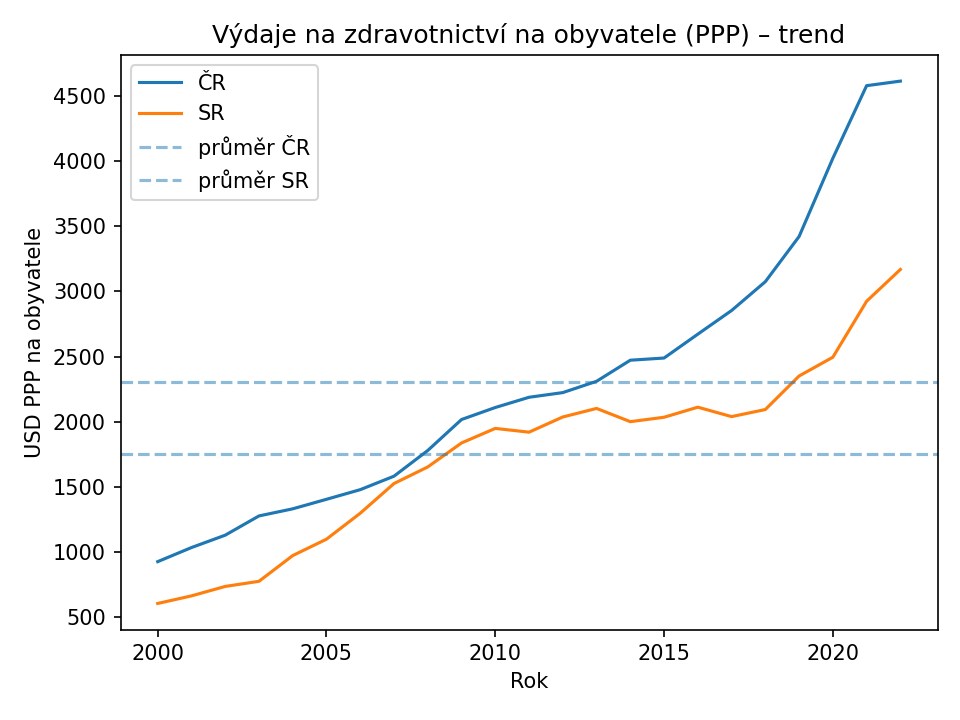
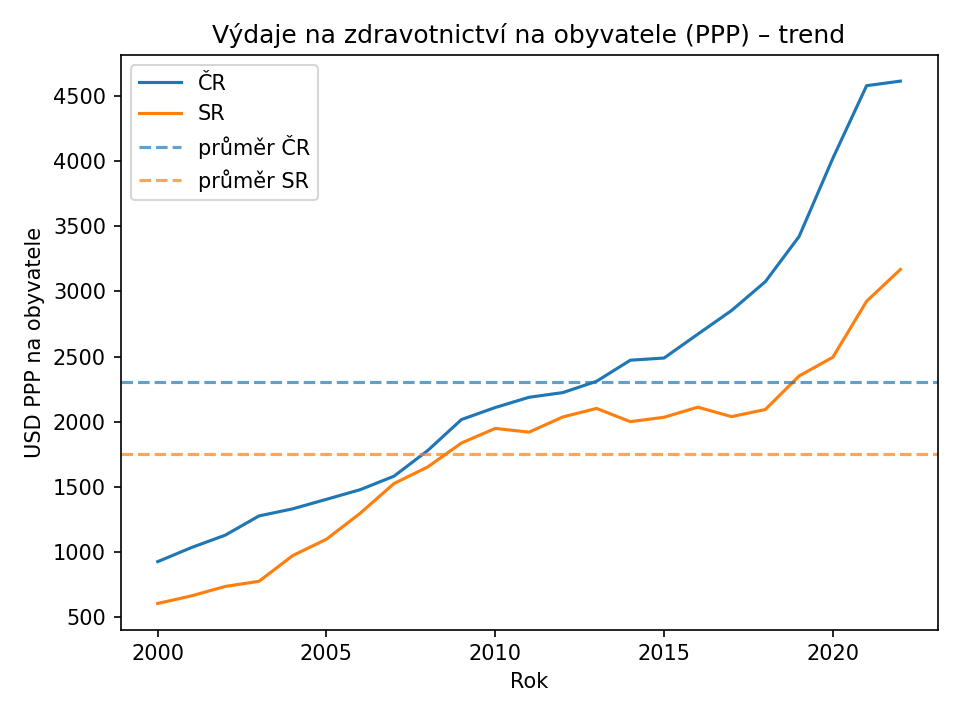
add suggested changes + fix: folders

diff --git a/scripts/fetch_and_ttest.py b/scripts/fetch_and_ttest.py
@@ -19,8 +19,11 @@ from scipy.stats import norm
 AUTHOR = "Jakub Dvořák"
 DATE = "13. 8."
 
-OUT_PLOTS = "plots"
-OUT_RESULTS = "results"
+# --- ukládat o úroveň výš (../plots, ../results) ---
+BASE_DIR = os.path.dirname(os.path.abspath(__file__)) if "__file__" in globals() else os.getcwd()
+PROJ_ROOT = os.path.abspath(os.path.join(BASE_DIR, ".."))
+OUT_PLOTS = os.path.join(PROJ_ROOT, "plots")
+OUT_RESULTS = os.path.join(PROJ_ROOT, "results")
 os.makedirs(OUT_PLOTS, exist_ok=True)
 os.makedirs(OUT_RESULTS, exist_ok=True)
 
@@ -45,20 +48,24 @@ sk = fetch_series("SK", INDICATOR).rename(columns={"value": "SK"})
 df = pd.merge(cz, sk, on="year", how="inner").sort_values("year").reset_index(drop=True)
 df["diff"] = df["CZ"] - df["SK"]
 
-# Ulož CSV
+# Výpočet ratio
+df["ratio"] = df["CZ"] / df["SK"]
+df["log_ratio"] = np.log(df["ratio"])  # pro test konstantního podílu
+
+# Ulož CSV -> ../results/
 csv_path = os.path.join(OUT_RESULTS, "table_czsk.csv")
 df.to_csv(csv_path, index=False)
 print(f"Uloženo: {csv_path}")
 
-# Grafy
+# Grafy -> ../plots/
 plt.rcParams.update({"figure.dpi": 120})
 
 # 1) Trendy + průměry
 plt.figure()
-plt.plot(df["year"], df["CZ"], label="ČR")
-plt.plot(df["year"], df["SK"], label="SR")
-plt.axhline(df["CZ"].mean(), linestyle="--", alpha=0.5, label="průměr ČR")
-plt.axhline(df["SK"].mean(), linestyle="--", alpha=0.5, label="průměr SR")
+plt.plot(df["year"], df["CZ"], label="ČR", color="C0")
+plt.plot(df["year"], df["SK"], label="SR", color="C1")
+plt.axhline(df["CZ"].mean(), linestyle="--", alpha=0.7, color="C0", label="průměr ČR")
+plt.axhline(df["SK"].mean(), linestyle="--", alpha=0.7, color="C1", label="průměr SR")
 plt.xlabel("Rok"); plt.ylabel("USD PPP na obyvatele")
 plt.title("Výdaje na zdravotnictví na obyvatele (PPP) – trend")
 plt.legend(); plt.tight_layout()
@@ -77,6 +84,17 @@ plt.legend(); plt.tight_layout()
 plt.savefig(os.path.join(OUT_PLOTS, "02_diff_bar.png"), dpi=150)
 plt.close()
 
+# 2R) Podíl (CZ/SK) po letech
+plt.figure()
+plt.bar(df["year"], df["ratio"], width=0.7)
+plt.axhline(1.0, color="black", linewidth=0.8, label="= 1 (stejné)")
+plt.axhline(df["ratio"].mean(), linestyle="--", alpha=0.5, label=f"průměr ratio = {df['ratio'].mean():.3f}")
+plt.xlabel("Rok"); plt.ylabel("Podíl CZ/SK")
+plt.title("Podíl výdajů (CZ/SK) po letech")
+plt.legend(); plt.tight_layout()
+plt.savefig(os.path.join(OUT_PLOTS, "02_ratio_bar.png"), dpi=150)
+plt.close()
+
 # 3) Histogram rozdílů + normála
 mu, sd = df["diff"].mean(), df["diff"].std(ddof=1)
 x = np.linspace(mu - 4*sd, mu + 4*sd, 200)
@@ -86,6 +104,17 @@ plt.plot(x, norm.pdf(x, mu, sd))
 plt.xlabel("Rozdíl (ČR − SR)"); plt.ylabel("Hustota")
 plt.title("Rozdělení rozdílů (CZ−SK)"); plt.tight_layout()
 plt.savefig(os.path.join(OUT_PLOTS, "03_diff_hist.png"), dpi=150)
+plt.close()
+
+# 3R) Histogram podílu
+plt.figure()
+plt.hist(df["ratio"], bins=10, alpha=0.7, edgecolor="white")
+plt.axvline(1.0, color="black", linewidth=0.8, label="= 1 (stejné)")
+plt.axvline(df["ratio"].mean(), linestyle="--", alpha=0.5, label=f"průměr = {df['ratio'].mean():.3f}")
+plt.xlabel("Podíl CZ/SK"); plt.ylabel("Počet let")
+plt.title("Rozdělení podílu (CZ/SK)")
+plt.legend(); plt.tight_layout()
+plt.savefig(os.path.join(OUT_PLOTS, "03_ratio_hist.png"), dpi=150)
 plt.close()
 
 # 4) Scatter CZ vs. SK
@@ -107,7 +136,7 @@ plt.tight_layout()
 plt.savefig(os.path.join(OUT_PLOTS, "05_qqplot_diff.png"), dpi=150)
 plt.close()
 
-print("Uloženy PNG v: plots/")
+print(f"Uloženy PNG do: {OUT_PLOTS}")
 
 # Párový t-test
 diff = df["diff"].to_numpy(float)
@@ -143,7 +172,6 @@ else:
         f"Rozdíl průměrných výdajů se nepotvrdil."
     )
 
-
 md_path = os.path.join(OUT_RESULTS, "results_summary.md")
 with open(md_path, "w", encoding="utf-8") as f:
     f.write("# Výsledky párového t-testu\n\n")
@@ -151,8 +179,36 @@ with open(md_path, "w", encoding="utf-8") as f:
     f.write(vysledky + "\n")
     f.write("## Závěr\n" + zaver + "\n")
 
-print("Uloženo:", md_path)
+print(f"Uloženo: {md_path}")
 
 print("\nShrnutí:")
 print(vysledky)
 print(zaver)
+
+# Korelace CZ vs. SK
+r, p_r = stats.pearsonr(df["CZ"], df["SK"])
+
+# Test konstantního podílu
+slope, intercept, r_val, p_slope, se_slope = stats.linregress(df["year"], df["log_ratio"])
+t_slope = (slope / se_slope) if se_slope > 0 else float("nan")
+
+# Geometrický průměr podílu a 95% CI
+mu_lr = df["log_ratio"].mean()
+sd_lr = df["log_ratio"].std(ddof=1)
+se_lr = sd_lr / math.sqrt(len(df))
+tcrit_ratio = stats.t.ppf(0.975, df=len(df)-1)
+gm = math.exp(mu_lr)
+ci_ratio_lo = math.exp(mu_lr - tcrit_ratio * se_lr)
+ci_ratio_hi = math.exp(mu_lr + tcrit_ratio * se_lr)
+
+with open(md_path, "a", encoding="utf-8") as f:
+    f.write("\n## Podíl CZ/SK\n\n")
+    f.write(f"- Korelace CZ vs. SK: r = {r:.3f}, p = {p_r:.3g}\n")
+    f.write(f"- Geometrický průměr podílu CZ/SK: {gm:.3f} (95% CI [{ci_ratio_lo:.3f}, {ci_ratio_hi:.3f}])\n")
+    f.write(f"- Test konstantního podílu: slope = {slope:.4e}, "
+            f"t ≈ {t_slope:.2f}, p = {p_slope:.3g}, R² = {r_val**2:.3f}\n")
+
+print("\nDoplňková analýza:")
+print(f"Korelace CZ vs. SK: r = {r:.3f}, p = {p_r:.3g}")
+print(f"Geometrický průměr podílu: {gm:.3f} (95% CI [{ci_ratio_lo:.3f}, {ci_ratio_hi:.3f}])")
+print(f"log(CZ/SK) ~ rok: slope = {slope:.4e}, t ≈ {t_slope:.2f}, p = {p_slope:.3g}, R² = {r_val**2:.3f}")

diff --git a/results/results_summary.md b/results/results_summary.md
@@ -10,3 +10,9 @@ t(22) = 5.565, p = < 0.001.
 
 ## Závěr
 Na hladině α = 0.05 zamítáme H₀. V průměru jsou výdaje vyšší v ČR než v SR.
+
+## Podíl CZ/SK
+
+- Korelace CZ vs. SK: r = 0.941, p = 2.28e-11
+- Geometrický průměr podílu CZ/SK: 1.306 (95% CI [1.222, 1.396])
+- Test konstantního podílu: slope = 1.5169e-03, t ≈ 0.31, p = 0.763, R² = 0.004
